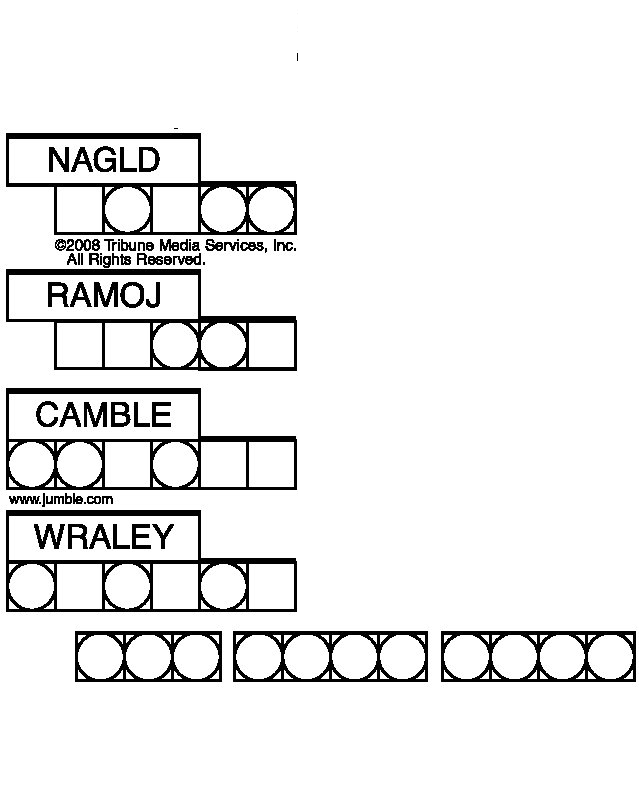
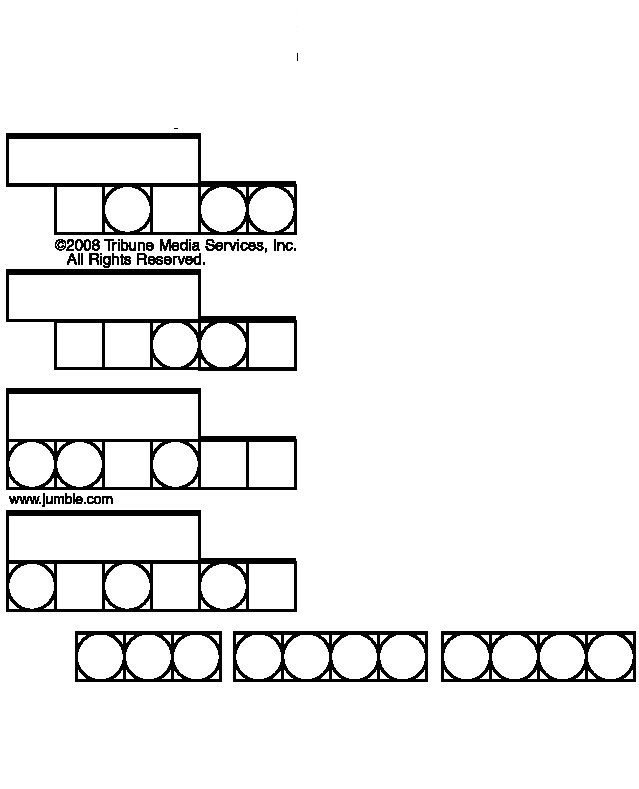
Can now extract text out of the word jumbles.

diff --git a/process.py b/process.py
@@ -1,9 +1,9 @@
 import os
 from load import getPixels, getImage
-from ImageStructures import Line, Point
+from ImageStructures import Line, Point, CompoundLine
 
 IMAGES_DIR = "images"
-IMAGE_FILES = ["j1.jpg", "j2.jpg", "j4.jpg"]
+IMAGE_FILES = ["j1.jpg", "j2.jpg", "j3.jpg"]
 IMAGES = [os.path.join(IMAGES_DIR, IMAGE_PATH) for IMAGE_PATH in IMAGE_FILES]
 
 def main():
@@ -18,10 +18,6 @@ def main():
 
 		cp1 = (wordEndPoint+1,0)
 		cp2 = (len(pixels), answerTop-1)
-
-		print("Answer height is {}".format(answerTop))
-		print("Word width is {}".format(wordEndPoint))
-		print()
 
 		cp3 = (0, answerBottom+1)
 		cp4 = (len(pixels[0]), len(pixels))
@@ -43,6 +39,52 @@ def main():
 
 		modifyImage(savepath,cp7,cp8,savepath)
 
+		prevY = lines[0].start.y
+		count = 0
+		lastnew = False
+		compoundLines = []
+		currCompoundLine = CompoundLine()
+		currCompoundLine.add(lines[0])
+
+		for line in lines[1:]:
+			dif = line.start.y - prevY
+			if dif not in range(0,8):
+				count += 1
+				lastnew = True
+				compoundLines += [currCompoundLine]
+				currCompoundLine = CompoundLine()
+			else:
+				currCompoundLine.add(line)
+				lastnew = False
+
+			prevY = line.start.y
+
+		if not lastnew:
+			count +=1
+			compoundLines += [currCompoundLine]
+
+		crops = getWordRegions(compoundLines)
+
+		for crop in crops:
+			modifyImage(savepath,crop[0],crop[1],savepath)
+
+
+def getWordRegions(compoundLines):
+	# Last two horizontal lines define the answer
+	clines = compoundLines[:-2]
+	crops = []
+	cp1 = None
+	cp2 = None 
+
+	for i,line in enumerate(clines[::3]):
+		nextline = clines[(i*3)+1]
+
+		cp1 = (line.minX + 10, line.maxY + 1)
+		cp2 = (line.maxX - 10, nextline.minY - 1)
+
+		crops.append( [cp1,cp2] )
+
+	return crops
 
 def findSignificantHorizontalLines(pixels, signifcance=0.17):
 	height = len(pixels)

diff --git a/ImageStructures.py b/ImageStructures.py
@@ -54,3 +54,34 @@ class Line(object):
             self.xcurr += 1
             return self.xcurr, self.start.y
 
+class CompoundLine(object):
+    def __init__(self):
+        self.lines = []
+
+    def add(self, line):
+        self.lines += [line]
+
+    def __str__(self):
+        strform = "CompoundLine (size {})\n".format(len(self.lines))
+        for line in self.lines:
+            strform += "\t" + str(line) + "\n"
+        return strform
+
+    @property
+    def minY(self):
+        return min([line.start.y for line in self.lines])
+
+    @property
+    def maxY(self):
+        return max([line.start.y for line in self.lines])
+
+    @property
+    def minX(self):
+        return min([line.start.x for line in self.lines])
+
+    @property
+    def maxX(self):
+        return max([line.end.x for line in self.lines])
+    
+    
+
